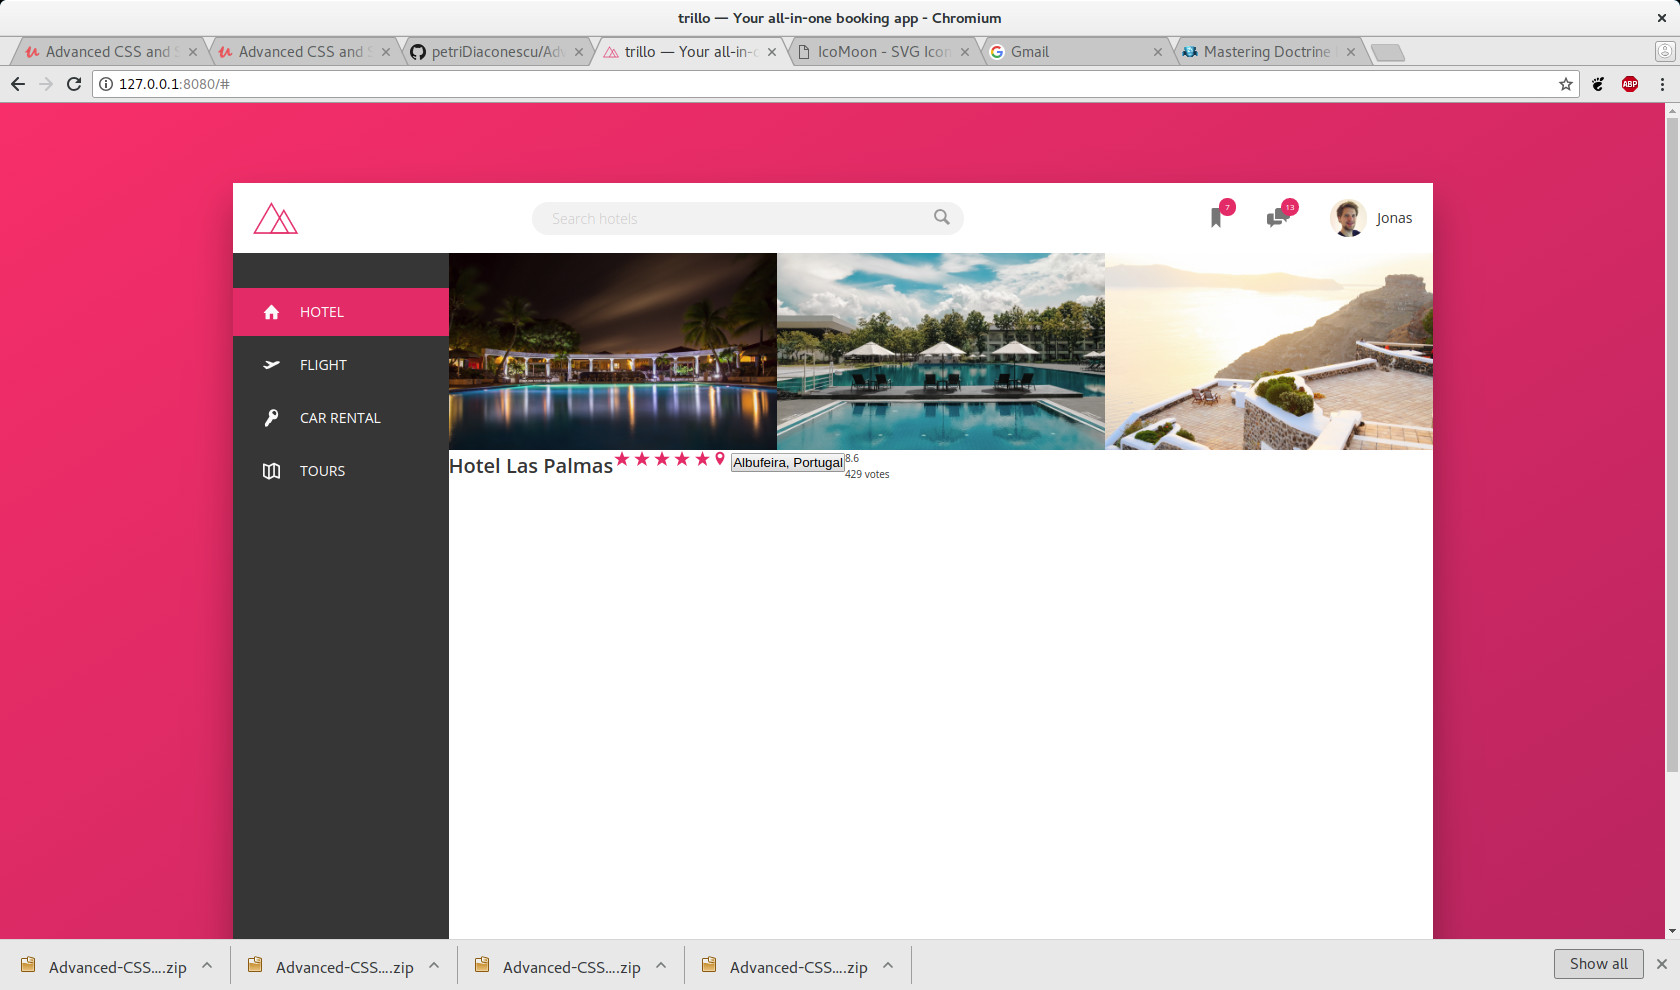
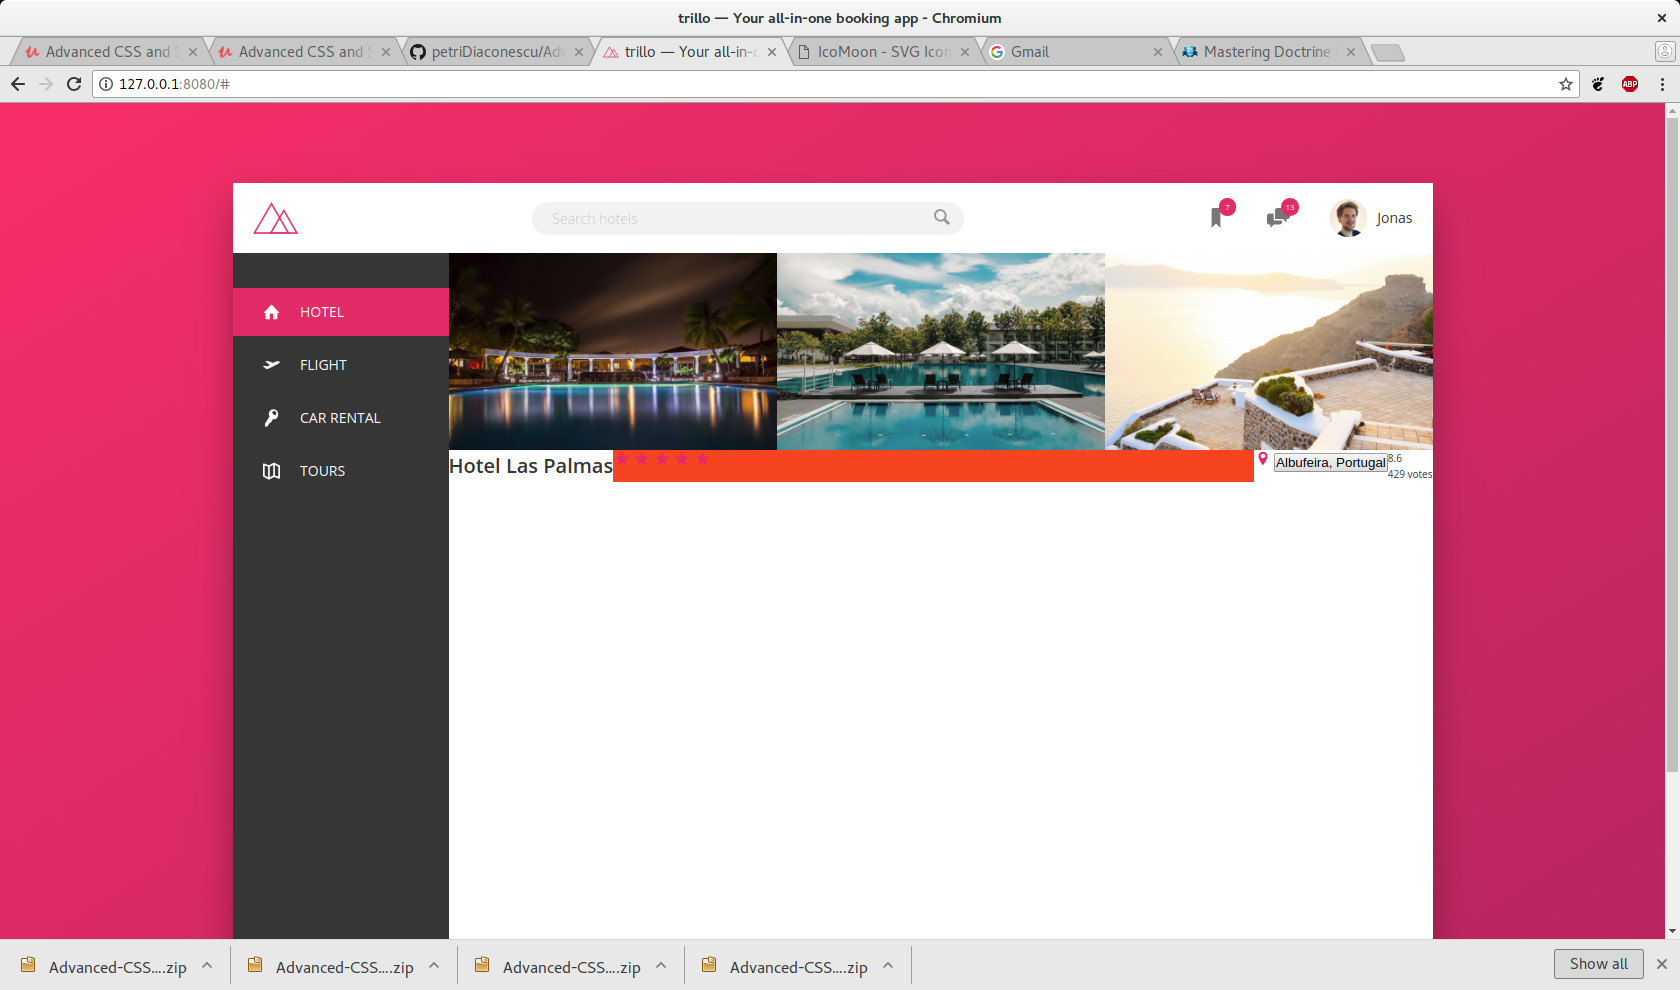
Make the stars container to ocupy all space available. But this isn't ideal. If we have a hover effect all the part ocupied by the red background will be affected. We want only stars extent to be affected.

Changed region(s): [[0.3405, 0.4545, 0.8357, 0.4848]]

diff --git a/sass/_components.scss b/sass/_components.scss
@@ -216,7 +216,8 @@
   }
   
   &__stars {
-    
+    flex: 1;
+    background-color: orangered;
   }
   
   &__icon-star,
